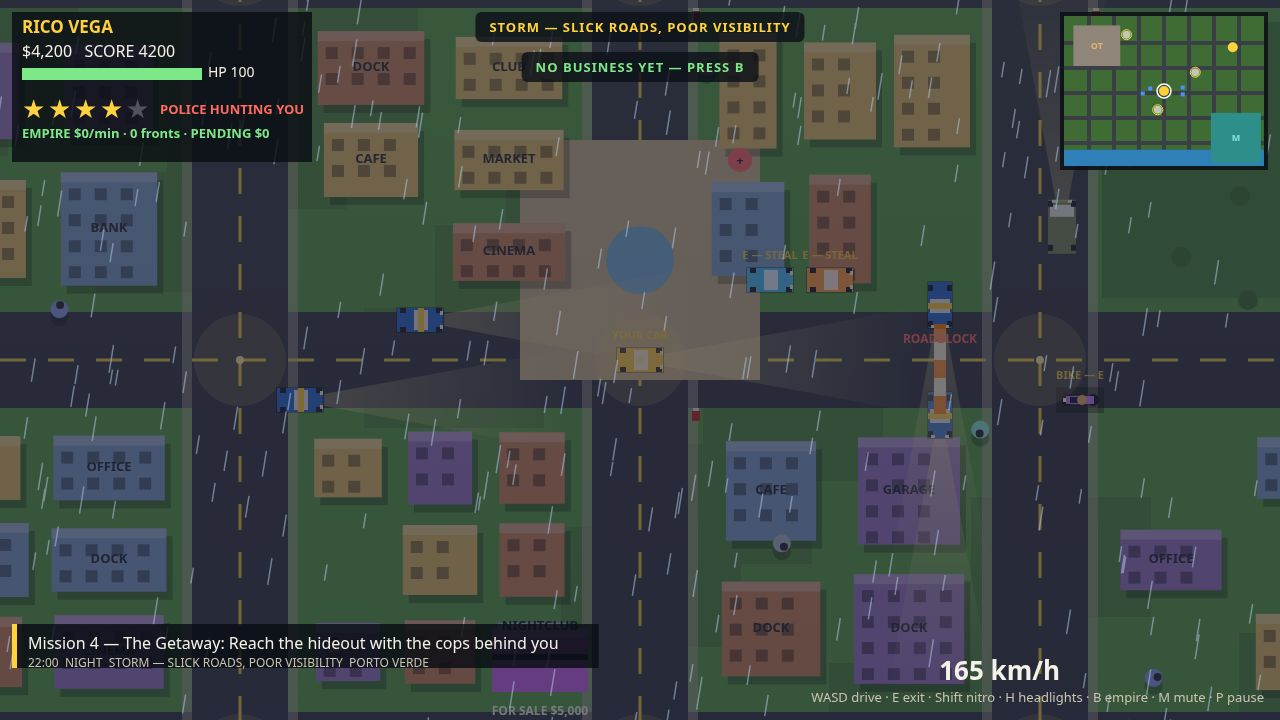
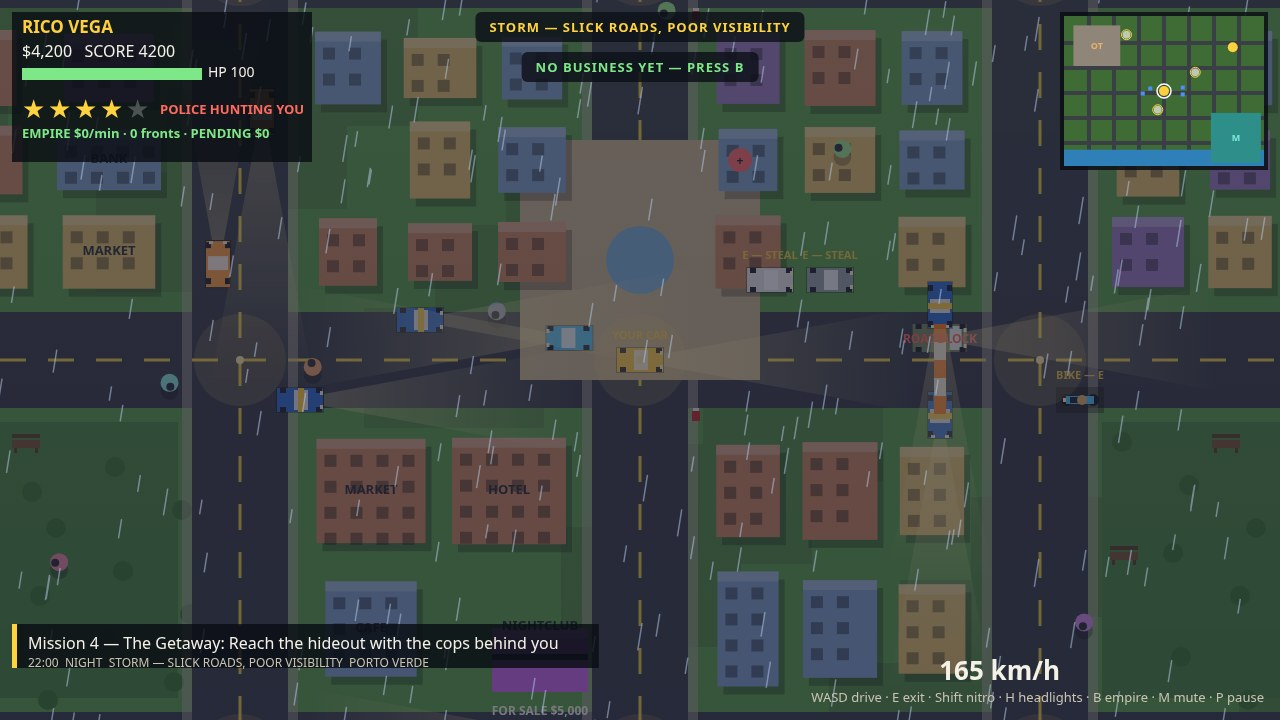
gta6-01 v6: empire shot staging, seed 21

diff --git a/game/src/main.js b/game/src/main.js
@@ -1,5 +1,5 @@
 // Porto Verde — boot, loop, screens, wanted/police, missions, save/load, shot staging.
-// ?seed=N fixes the city. ?shot=chase|menu|street|mission stages that scene and sets
+// ?seed=N fixes the city. ?shot=chase|menu|street|mission|empire stages that scene and sets
 // window.__shotReady. window.__game exposes live state for playtesting.
 import { WORLD, SAVE_KEY, BEST_KEY, POLICE, HELI, VIGILANTE, EMPIRE, mulberry32, clamp, dist } from './config.js';
 import { generateCity } from './world.js';
@@ -588,6 +588,20 @@ function stageShot(name) {
     s.player.x = 1000; s.player.y = 380; s.player.money = 2400; s.player.score = 2400;
     s.empire.owned.laundromat = { level: 1, pending: 85 };
     s.missionState.active = true; s.missionState.index = 9; s.missionState.step = 1;
+    s.missionState.collectThisStep = 0;
+    updateObjective();
+  } else if (name === 'empire') {
+    // Empire panel (v5): all three fronts owned, pending payouts, mission 11
+    // "Empire Strikes Back" live; Rico outside Club Neon in the late afternoon.
+    s.screen = SCREEN_PLAY;
+    s.clock = 17 * 60 + 30;
+    setWeather(s.weather, 'clear');
+    s.player.x = 1500; s.player.y = 1500; s.player.money = 9800; s.player.score = 9800; s.player.wanted = 0;
+    s.empire.owned.laundromat = { level: 1, pending: 85 };
+    s.empire.owned.chopshop = { level: 2, pending: 240 };
+    s.empire.owned.nightclub = { level: 2, pending: 310 };
+    s.empireOpen = true; s.empireSel = 2; s.empireMsg = '';
+    s.missionState.active = true; s.missionState.index = 10; s.missionState.step = 0;
     s.missionState.collectThisStep = 0;
     updateObjective();
   }
